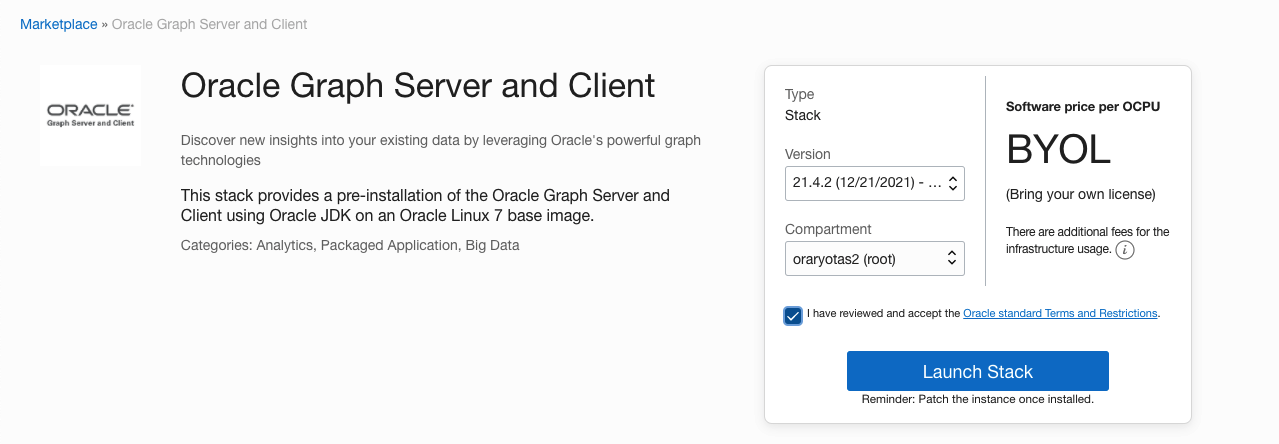
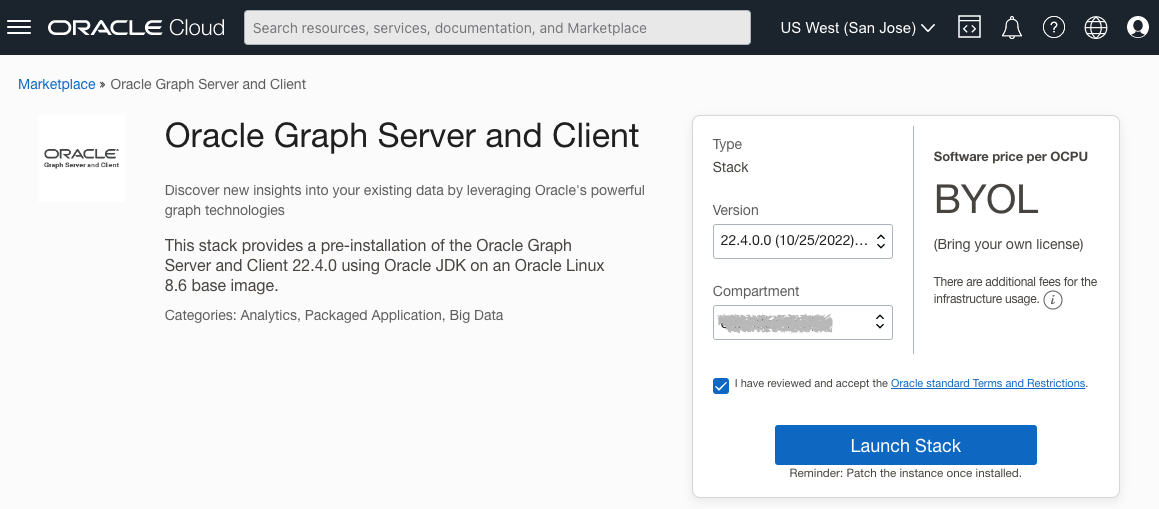
ID 2820: Update for 22.4

diff --git a/graph/graph-server-client/deploy-oci-marketplace-image/deploy-image/deploy-image.md b/graph/graph-server-client/deploy-oci-marketplace-image/deploy-image/deploy-image.md
@@ -35,7 +35,7 @@ Estimated time: 7 minutes
     - Destination Port Range: **7007**
     - Description: e.g. **For Graph Server**
 
-    ![ingress-rule](images/ingress-rule.jpg)
+    ![ingress-rule](images/ingress-rule.png)
 
 
 ## Task 2: Locate the Graph Server and Client in the Marketplace
@@ -48,20 +48,20 @@ Oracle Cloud Marketplace stacks are a set of Terraform templates that provide a 
 
     ![marketplace](images/marketplace.jpg)
 
-2. Select the stack and then review the System Requirements and Usage Instructions. Then select the version **21.4.x** (18-month patch release) and choose a compartment and click on **Launch Stack**.
+2. Select the stack and then review the System Requirements and Usage Instructions. Then select the version **22.4.x** (18-month patch release) and choose a compartment and click on **Launch Stack**.
 
     ![launch-stack](images/launch-stack.png)
 
 3. **Stack Information**: You do not need to change. Proceed with **Next**.
 
-    ![create-stack](images/create-stack.jpg)
+    ![create-stack](images/create-stack.png)
 
 4. **Configure Variables**: You will need to choose or provide the following:
 
     - Oracle Graph Server Shape: an always free eligible shape is **VM.Standard.E2.1.Micro**
     - SSH Public Key: This is used when you ssh into the provisioned instance later.
 
-    ![configure-variables-1](images/configure-variables-1.jpg)
+    ![configure-variables-1](images/configure-variables-1.png)
 
     - Existing Virtual cloud network: The one created above, **vcn1**
     - Existing Subnet: The one created above, **Public Subnet-vcn1**
@@ -182,5 +182,5 @@ You may now proceed to the next lab.
 
 * **Author** - Jayant Sharma, Product Manager, Spatial and Graph
 * **Contributors** - Thanks to Jenny Tsai for helpful, constructive feedback that improved this workshop. Arabella Yao, Product Manager Intern, Database Management.
-* **Last Updated By/Date** - Ryota Yamanaka, January 2022
+* **Last Updated By/Date** - Ryota Yamanaka, March 2023
 

diff --git a/graph/graph-server-client/deploy-oci-marketplace-image/query-and-analyze-graphs/query-and-analyze-graphs.md b/graph/graph-server-client/deploy-oci-marketplace-image/query-and-analyze-graphs/query-and-analyze-graphs.md
@@ -128,7 +128,8 @@ Let's find which accounts are influential in the network. There are various algo
 
     ```
     <copy>
-    graph2 = graph.filter(pgx.EdgeFilter("edge.label()='TRANSFER'")); graph2
+    graph2 = graph.filter(pgx.EdgeFilter("edge.label()='TRANSFER'"));
+    graph2
     </copy>
 
     PgxGraph(name: sub-graph_16, v: 6, e: 8, directed: True, memory(Mb): 0)
@@ -281,4 +282,4 @@ You may now proceed to the next Lab.
 
 * **Author** - Jayant Sharma
 * **Contributors** - Arabella Yao, Jenny Tsai
-* **Last Updated By/Date** - Ryota Yamanaka, April 2022
+* **Last Updated By/Date** - Ryota Yamanaka, March 2023

diff --git a/graph/graph-server-client/deploy-oci-marketplace-image/create-graph/create-graph.md b/graph/graph-server-client/deploy-oci-marketplace-image/create-graph/create-graph.md
@@ -45,7 +45,7 @@ You should see the following if the client shell starts up successfully.
 ```
 password:
 
-Oracle Graph Client Shell 21.4.2
+Oracle Graph Client Shell 22.4.0
 >>>
 ```
 
@@ -204,4 +204,4 @@ You may now proceed to the next lab.
 
 - **Author** - Jayant Sharma
 - **Contributors** - Arabella Yao, Jenny Tsai
-- **Last Updated By/Date** - Ryota Yamanaka, January 2022
+- **Last Updated By/Date** - Ryota Yamanaka, March 2023
